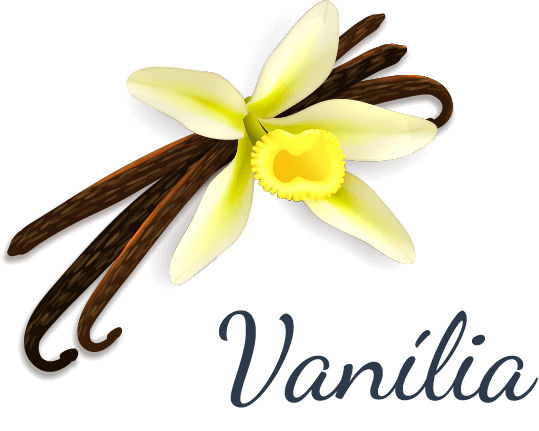
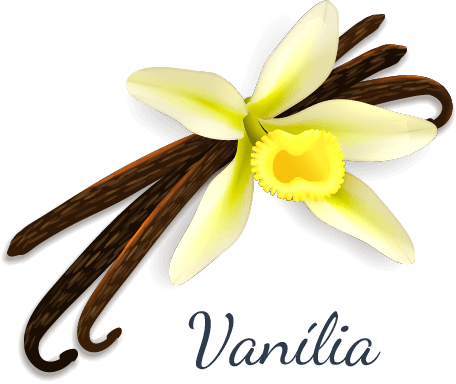
upload+edit view

diff --git a/src/app/pages/edit/edit.component.html b/src/app/pages/edit/edit.component.html
@@ -8,7 +8,7 @@
     [orientation]="dataService.displaySize > 2 ? 'horizontal' : 'vertical'">
     <mat-step [stepControl]="firstFormGroup" label="Név, kategóriák">
       <div class="first-bg relative">
-        <img class="absolute hidden md:block right-20 lg:-right-8 top-20" src="../../../assets/img/menta.png" alt="" [width]="dataService.currentScreenSize ? dataService.currentScreenSize*70:0">
+        <img class="absolute hidden md:block right-0 top-0 lg:top-24" src="../../../assets/img/anizs.png" alt="" [width]="dataService.currentScreenSize ? dataService.currentScreenSize*140*0.70:0">
       </div>
       <form [formGroup]="firstFormGroup">
         <div class="flex flex-row flex-wrap md:gap-x-5 xl:gap-x-10 gap-y-20 pt-10">
@@ -103,23 +103,23 @@
           </mat-form-field>
         </div>
         <div>
-          <button mat-stroked-button color="primary" matStepperNext>Következő</button>
+          <button mat-flat-button color="primary" matStepperNext>Következő</button>
         </div>
       </form>
     </mat-step>
   
     <mat-step [stepControl]="secondFormGroup" label="Elkészítés lépései">
       <div class="relative">
-        <img class="absolute hidden lg:block right-20 lg:-right-8 top-32 lg:top-8" src="../../../assets/img/kardamom.png" alt="" [width]="dataService.currentScreenSize ? dataService.currentScreenSize*100:0">
+        <img class="absolute hidden md:block right-0 top-0 lg:top-8" src="../../../assets/img/szegfuszeg.png" alt="" [width]="dataService.currentScreenSize ? dataService.currentScreenSize*100:0">
       </div>
       <form [formGroup]="secondFormGroup">
         <div formArrayName="directions">
           <div #formRow *ngFor="let dir of directions.controls; index as i"
           [formGroupName]="i"
-          class="flex flex-col lg:flex-row"
+          class="flex flex-row flex-wrap"
           >
             <mat-form-field appearance="legacy"
-            class="basis-full lg:basis-4/6"
+            class="basis-3/5"
             >
               <mat-label>{{i+1}}. lépés</mat-label>
               <textarea
@@ -134,36 +134,40 @@
   
             </mat-form-field>
   
-            <div class="basis-2/6 flex flex-row">
-              <button *ngIf="i != 0"
-              mat-button class=""
-              (click)="removeDirection(i)"
-              type="button" >Lépés törlése</button>
-  
-              <button *ngIf="i == secondFormGroup.controls['directions'].value.length - 1"
-              mat-button class=""
+            <div class="basis-2/5 flex flex-row">
+              <button *ngIf="i == secondFormGroup.controls['directions'].value.length - 1 && secondFormGroup.controls['directions']?.valid"
+              mat-icon-button disableRipple="true" class="btn-icon" 
+              title="Új lépés hozzáadása"
               (click)="addDirection(i)"
-              type="button" [disabled]="!secondFormGroup.controls['directions']?.valid">Lépés hozzáadása</button>
+              type="button" [disabled]="!secondFormGroup.controls['directions']?.valid"><mat-icon color="accent">create</mat-icon></button>
+              <button *ngIf="i != 0"
+              mat-icon-button disableRipple="true" class="btn-icon" 
+              title="Lépés törlése"
+              (click)="removeDirection(i)"
+              type="button" ><mat-icon color="warn">delete_outline</mat-icon></button>
             </div>
           </div>
         </div>
   
         <div>
-          <button mat-stroked-button color="primary" matStepperPrevious>Előző</button>
-          <button mat-stroked-button color="primary" matStepperNext>Következő</button>
+          <button  mat-flat-button color="primary" matStepperPrevious>Előző</button><span class="mr-3"></span>
+          <button  mat-flat-button color="primary" matStepperNext>Következő</button>
         </div>
       </form>
     </mat-step>
   
     <mat-step [stepControl]="thirdFormGroup" label="Hozzávalók">
+      <div class="first-bg relative">
+        <img class="absolute hidden md:block -right-6 top-8" src="../../../assets/img/szerecsendio.png" alt="" [width]="dataService.currentScreenSize ? dataService.currentScreenSize*130*0.70:0">
+      </div>
       <form [formGroup]="thirdFormGroup">
         <div formArrayName="ingredients">
           <div #formRow *ngFor="let dir of ingredients.controls; index as i"
           [formGroupName]="i"
-          class="flex flex-col lg:flex-row"
+          class="flex flex-row flex-wrap lg:gap-x-10"
           >
             <mat-form-field
-            class="basis-full md:basis-1/2 lg:basis-2/6 xl:basis-1/5 p-5">
+            class="basis-full md:basis-2/3 lg:basis-2/6 xl:basis-1/4">
               <mat-label>Hozzávaló neve</mat-label>
               <input
               type="text"
@@ -175,7 +179,7 @@
             <mat-form-field
             appearance="legacy"
             hintLabel=""
-            class="basis-full md:basis-1/2 lg:basis-1/6 xl:basis-1/6 p-5">
+            class="basis-full md:basis-2/3 lg:basis-1/6 xl:basis-1/5">
               <mat-label>Mennyiségi egysége</mat-label>
               <mat-select
               formControlName="iUnit"
@@ -187,7 +191,7 @@
             </mat-select>
           </mat-form-field>
             <mat-form-field
-            class="basis-full md:basis-1/2 lg:basis-1/6 xl:basis-1/6 p-5">
+            class="basis-full md:basis-2/3 lg:basis-1/6 xl:basis-1/12">
               <mat-label>Mennyisége</mat-label>
               <input
               type="number" min="0" step="1"
@@ -197,34 +201,40 @@
               >
             </mat-form-field>
   
-            <div class="basis-2/6 flex flex-row">
-              <button *ngIf="i != 0"
-              mat-button class=""
-              (click)="removeIngredient(i)"
-              type="button" >Hozzávaló törlése</button>
-  
-              <button *ngIf="i == thirdFormGroup.controls['ingredients'].value.length - 1"
-              mat-button class=""
+            <div class="basis-1/12 flex flex-row">
+              <button *ngIf="i == thirdFormGroup.controls['ingredients'].value.length - 1 && thirdFormGroup.controls['ingredients']?.valid"
+              mat-icon-button class="btn-icon" 
+              disableRipple="true"
+              title="Új hozzávaló hozzáadása"
               (click)="addIngredient(i)"
-              type="button" [disabled]="!thirdFormGroup.controls['ingredients']?.valid">Új hozzávaló</button>
+              type="button" [disabled]="!thirdFormGroup.controls['ingredients']?.valid"><mat-icon color="accent">create</mat-icon></button>
+              <button *ngIf="i != 0"
+              mat-icon-button class="btn-icon" 
+              disableRipple="true"
+              title="Hozzávaló törlése"
+              (click)="removeIngredient(i)"
+              type="button" ><mat-icon color="warn">delete_outline</mat-icon></button>
             </div>
           </div>
         </div>
   
         <div>
-          <button mat-stroked-button color="primary" matStepperPrevious>Előző</button>
-          <button mat-stroked-button color="primary" matStepperNext>Következő</button>
+          <button  mat-flat-button color="primary" matStepperPrevious>Előző</button><span class="mr-3"></span>
+          <button  mat-flat-button color="primary" matStepperNext>Következő</button>
         </div>
       </form>
     </mat-step>
   
     <mat-step [stepControl]="fourthFormGroup" label="Egyéb jellemzők">
+      <div class="first-bg relative">
+        <img class="absolute hidden md:block -right-4 top-8" src="../../../assets/img/kardamom.png" alt="" [width]="dataService.currentScreenSize ? dataService.currentScreenSize*170*0.70:0">
+      </div>
       <form [formGroup]="fourthFormGroup">
-        <div class="flex flex-row flex-wrap">
+        <div class="flex flex-row flex-wrap md:gap-x-10 gap-y-20 md:mb-20 ">
           <mat-form-field
             appearance="legacy"
             hintLabel="Percben add meg"
-            class="basis-full md:basis-1/2 lg:basis-2/6 xl:basis-1/5 p-5">
+            class="basis-full md:basis-1/12">
               <mat-label>Elkészítési idő</mat-label>
               <input
               id="time" type="number" name="time"
@@ -237,7 +247,7 @@
           <mat-form-field
           appearance="legacy"
           hintLabel=""
-          class="basis-full md:basis-1/2 lg:basis-2/6 xl:basis-1/5 p-5">
+          class="basis-full md:basis-1/12">
           <mat-label>Hány főre</mat-label>
           <input
           id="serving" type="number" name="serving"
@@ -248,11 +258,11 @@
   
           </mat-form-field>
         </div>
-        <div class="flex flex-row flex-wrap">
+        <div class="flex flex-row flex-wrap md:gap-x-10 gap-y-20 my-20 md:my-0">
           <mat-form-field
           appearance="legacy"
           hintLabel="Nem kötelező"
-          class="basis-full md:basis-1/2 lg:basis-2/6 xl:basis-1/5 p-5">
+          class="basis-full md:basis-1/12">
             <mat-label>Kalória</mat-label>
             <input
             id="calorie" type="number" name="calorie"
@@ -263,7 +273,7 @@
           <mat-form-field
           appearance="legacy"
           hintLabel="Nem kötelező"
-          class="basis-full md:basis-1/2 lg:basis-2/6 xl:basis-1/5 p-5">
+          class="basis-full md:basis-1/12">
             <mat-label>Szénhidrát</mat-label>
             <input
             id="carbonh" type="number" name="carbonh"
@@ -274,7 +284,7 @@
           <mat-form-field
           appearance="legacy"
           hintLabel="Nem kötelező"
-          class="basis-full md:basis-1/2 lg:basis-2/6 xl:basis-1/5 p-5">
+          class="basis-full md:basis-1/12">
             <mat-label>Fehérje</mat-label>
             <input
             id="protein" type="number" name="protein"
@@ -285,7 +295,7 @@
           <mat-form-field
           appearance="legacy"
           hintLabel="Nem kötelező"
-          class="basis-full md:basis-1/2 lg:basis-2/6 xl:basis-1/5 p-5">
+          class="basis-full md:basis-1/12">
             <mat-label>Zsír</mat-label>
             <input
             id="fat" type="number" name="fat"
@@ -296,7 +306,7 @@
           <mat-form-field
           appearance="legacy"
           hintLabel="Nem kötelező"
-          class="basis-full md:basis-1/2 lg:basis-2/6 xl:basis-1/5 p-5">
+          class="basis-full md:basis-1/12">
             <mat-label>Cukor</mat-label>
             <input
             id="sugar" type="number" name="sugar"
@@ -306,8 +316,8 @@
           </mat-form-field>
         </div>
         <div>
-          <button mat-stroked-button color="primary" matStepperPrevious>Előző</button>
-          <button mat-stroked-button color="primary" matStepperNext>Következő</button>
+          <button  mat-flat-button color="primary" matStepperPrevious>Előző</button><span class="mr-3"></span>
+          <button  mat-flat-button color="primary" matStepperNext>Következő</button>
         </div>
       </form>
     </mat-step>
@@ -322,7 +332,7 @@
             class="inline-block uploaded-card"
             *ngFor="let img of uploadedImages">
               <img *ngIf="img != '' && img != null" class="card-image" [src]="img.name" alt="" width="360" height="">
-              <div><button (click)="openDeleteDialog(img)">Kép törlése</button></div>
+              <div class="py-3"><button mat-flat-button color="warn" (click)="openDeleteDialog(img)">Kép törlése</button></div>
             </div>
   
           </div>
@@ -364,7 +374,7 @@
   
         </div>
         <div>
-          <button mat-stroked-button color="primary" matStepperPrevious>Előző</button>
+          <button mat-flat-button color="primary" matStepperPrevious>Előző</button>
         </div>
       </form>
     </mat-step>

diff --git a/src/app/pages/upload/upload.component.html b/src/app/pages/upload/upload.component.html
@@ -5,7 +5,7 @@
   [orientation]="dataService.displaySize > 2 ? 'horizontal' : 'vertical'">
   <mat-step [stepControl]="firstFormGroup" label="Név, kategóriák">
     <div class="relative">
-      <img class="absolute hidden md:block right-20 lg:-right-8 top-28" src="../../../assets/img/vanilia.png" alt="" [width]="dataService.currentScreenSize ? dataService.currentScreenSize*100:0">
+      <img class="absolute hidden md:block md:right-0 lg:-right-0 top-20" src="../../../assets/img/vanilia.png" alt="" [width]="dataService.currentScreenSize ? dataService.currentScreenSize*140*0.70:0">
     </div>
     <form [formGroup]="firstFormGroup">
       <div class="flex flex-row flex-wrap md:gap-x-5 xl:gap-x-10 gap-y-20 pt-10">
@@ -107,18 +107,16 @@
   
   <mat-step [stepControl]="secondFormGroup" label="Elkészítés lépései">
     <div class="relative">
-      <img class="absolute hidden md:block right-20 lg:-right-8 top-32 lg:top-8" src="../../../assets/img/mak.png" alt="" [width]="dataService.currentScreenSize ? dataService.currentScreenSize*110:0">
+      <img class="absolute hidden md:block right-0 top-0" src="../../../assets/img/mak.png" alt="" [width]="dataService.currentScreenSize ? dataService.currentScreenSize*170*0.75:0">
     </div>
     <form [formGroup]="secondFormGroup" class="mt-10">
       <div formArrayName="directions">
         <div #formRow *ngFor="let dir of directions.controls; index as i"
         [formGroupName]="i"
-        class="flex flex-col lg:flex-row"
+        class="flex flex-row flex-wrap"
         >
-      
-        
           <mat-form-field appearance="legacy"
-          class="basis-full lg:basis-4/6"
+          class="basis-3/5"
           >
             <mat-label>{{i+1}}. lépés</mat-label>
             <textarea 
@@ -133,9 +131,7 @@
             
           </mat-form-field>
          
-          <div class="basis-2/6 flex flex-row">
-            
-          
+          <div class="basis-2/5 flex flex-row">
             <button *ngIf="i == secondFormGroup.controls['directions'].value.length - 1 && secondFormGroup.controls['directions']?.valid"
             mat-icon-button disableRipple="true" class="btn-icon" 
             title="Új lépés hozzáadása"
@@ -158,16 +154,16 @@
   </mat-step>
   <mat-step [stepControl]="thirdFormGroup" label="Hozzávalók" class="pt-10">
     <div class="relative">
-      <img class="absolute hidden md:block right-10 lg:-right-8 top-72 lg:top-10" src="../../../assets/img/anizs.png" alt="" [width]="dataService.currentScreenSize ? dataService.currentScreenSize*110:0">
+      <img class="absolute hidden md:block right-0 top-0" src="../../../assets/img/menta.png" alt="" [width]="dataService.currentScreenSize ? dataService.currentScreenSize*120*0.70:0">
     </div>
     <form [formGroup]="thirdFormGroup" class="mt-10">
       <div formArrayName="ingredients">
         <div #formRow *ngFor="let dir of ingredients.controls; index as i"
         [formGroupName]="i"
-        class="flex flex-col lg:flex-row lg:gap-x-10"
+        class="flex flex-row flex-wrap lg:gap-x-10"
         >
           <mat-form-field
-          class="basis-full md:basis-1/2 lg:basis-2/6 xl:basis-1/4">
+          class="basis-full md:basis-2/3 lg:basis-2/6 xl:basis-1/4">
             <mat-label>Hozzávaló neve</mat-label>
             <input
             type="text"
@@ -179,7 +175,7 @@
           <mat-form-field 
           appearance="legacy"
           hintLabel=""
-          class="basis-full md:basis-1/2 lg:basis-1/6 xl:basis-1/5">
+          class="basis-full md:basis-2/3 lg:basis-1/6 xl:basis-1/5">
             <mat-label>Mennyiségi egysége</mat-label>
             <mat-select 
             formControlName="iUnit" 
@@ -191,7 +187,7 @@
           </mat-select>
         </mat-form-field>
           <mat-form-field
-          class="basis-full md:basis-1/2 lg:basis-1/6 xl:basis-1/12">
+          class="basis-full md:basis-2/3 lg:basis-1/6 xl:basis-1/12">
             <mat-label>Mennyisége</mat-label>
             <input
             type="number" min="0" step="1"
@@ -228,7 +224,7 @@
 
   <mat-step [stepControl]="fourthFormGroup" label="Egyéb jellemzők">
     <div class="relative">
-      <img class="absolute hidden md:block right-16 lg:right-0 top-0 lg:top-8" src="../../../assets/img/fahej.png" alt="" [width]="dataService.currentScreenSize ? dataService.currentScreenSize*110:0">
+      <img class="absolute hidden md:block right-0 top-0" src="../../../assets/img/fahej.png" alt="" [width]="dataService.currentScreenSize ? dataService.currentScreenSize*150*0.70:0">
     </div>
     <form [formGroup]="fourthFormGroup" class="mt-10">
       <div class="flex flex-row flex-wrap md:gap-x-10 gap-y-20 md:mb-20 ">
